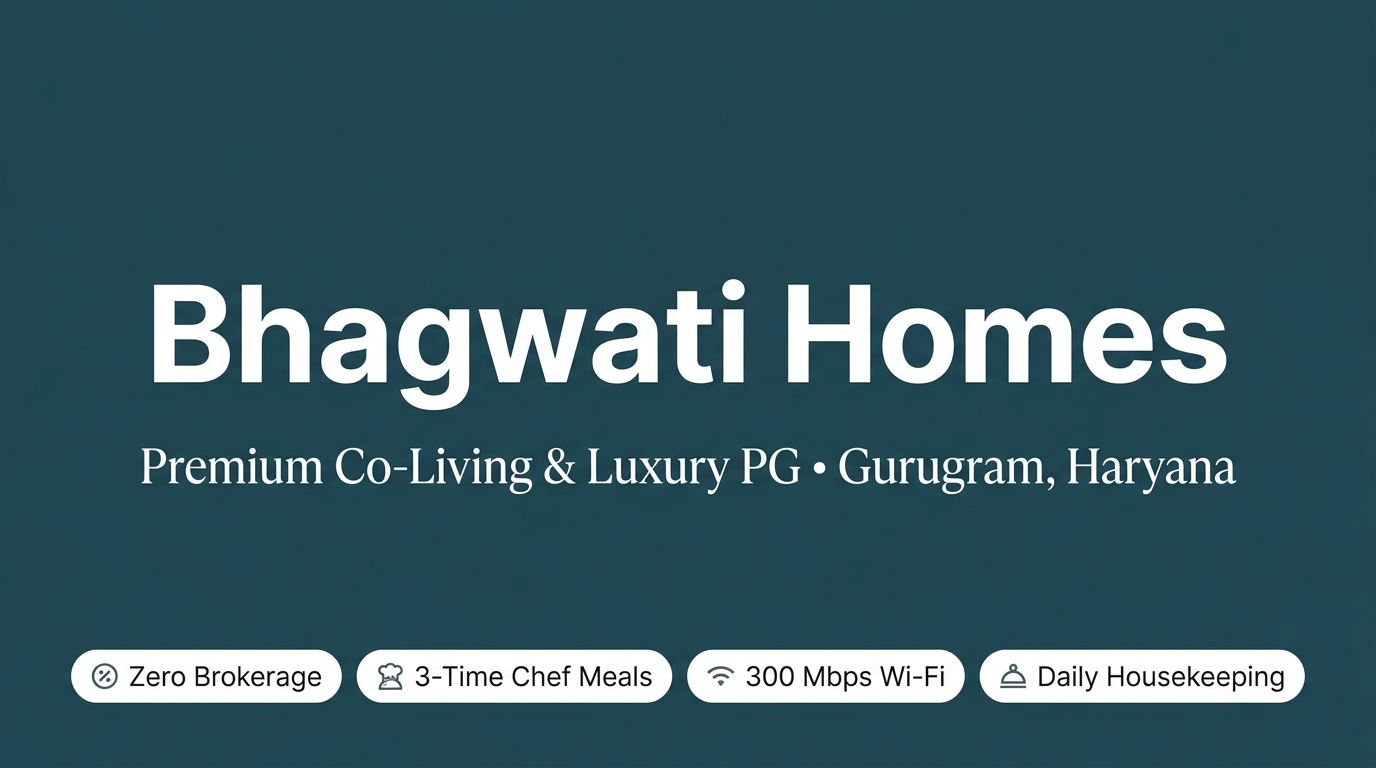
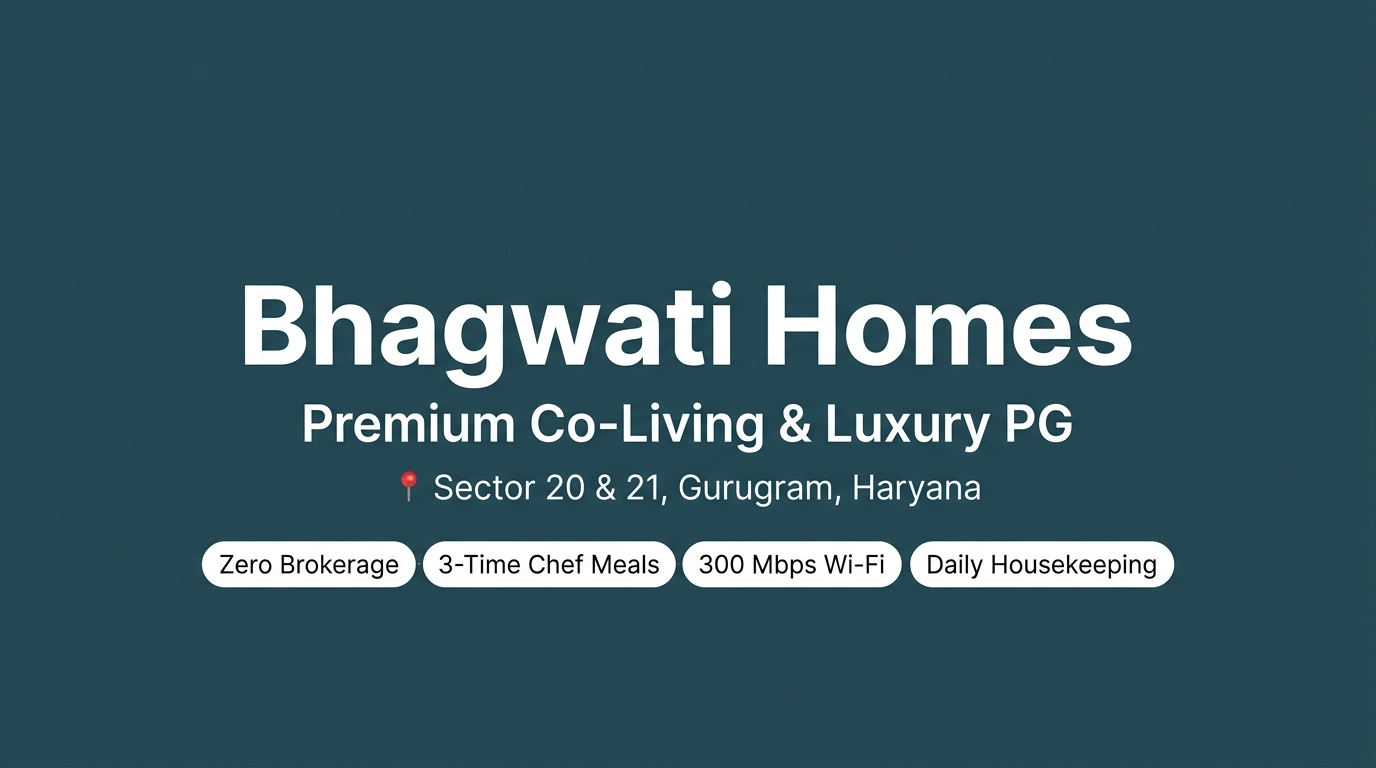
fix: center OG preview image for WhatsApp square crop and add cache buster

Changed region(s): [[0.0938, 0.3438, 0.9062, 0.6562], [0.0312, 0.8438, 0.9688, 0.9375], [0.125, 0.6875, 0.875, 0.7812]]

diff --git a/index.html b/index.html
@@ -23,7 +23,9 @@
     <meta property="og:site_name" content="Bhagwati Homes" />
     <meta property="og:title" content="Bhagwati Homes — Premium Co-Living &amp; Luxury PG in Gurugram" />
     <meta property="og:description" content="Hygienic 3-time chef meals, daily housekeeping, 300 Mbps Wi-Fi, biometric security &amp; zero brokerage. Sector 20 &amp; 21, Gurugram, Haryana." />
-    <meta property="og:image" content="https://bhagwatihomes.in/assets/og-preview.jpg" />
+    <meta property="og:image" content="https://bhagwatihomes.in/assets/og-preview.jpg?v=2" />
+    <meta property="og:image:secure_url" content="https://bhagwatihomes.in/assets/og-preview.jpg?v=2" />
+    <meta property="og:image:type" content="image/jpeg" />
     <meta property="og:image:width" content="1200" />
     <meta property="og:image:height" content="630" />
     <meta property="og:image:alt" content="Bhagwati Homes — Premium Co-Living &amp; Luxury PG in Gurugram, Haryana" />
@@ -33,7 +35,7 @@
     <meta name="twitter:card" content="summary_large_image" />
     <meta name="twitter:title" content="Bhagwati Homes — Premium Co-Living &amp; Luxury PG in Gurugram" />
     <meta name="twitter:description" content="Luxury single, double &amp; studio PG rooms in Gurugram. 3-time chef meals, 300 Mbps Wi-Fi &amp; zero brokerage." />
-    <meta name="twitter:image" content="https://bhagwatihomes.in/assets/og-preview.jpg" />
+    <meta name="twitter:image" content="https://bhagwatihomes.in/assets/og-preview.jpg?v=2" />
 
     <!-- Google Fonts -->
     <link rel="preconnect" href="https://fonts.googleapis.com">
